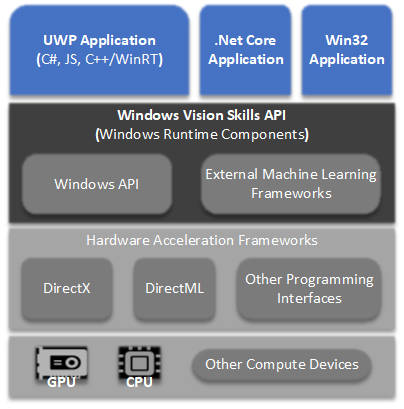
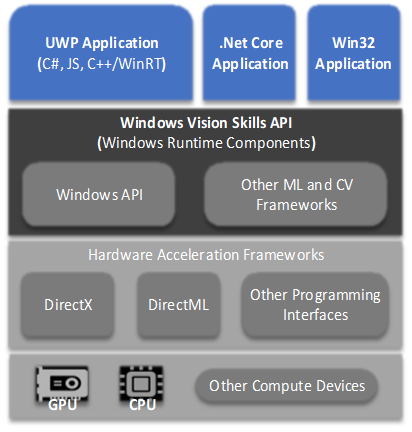
update Windows Vision Skill diagram referenced on the Index page. Remove duplicate and deprecated diagram.

diff --git a/docs/windows-vision-skills/index.md b/docs/windows-vision-skills/index.md
@@ -23,7 +23,7 @@ The **Windows Vision Skills** framework is meant to standardize the way computer
         The implementation that contains the complex details is encapsulated by an extensible WinRT API that inherits the base classes and interfaces in the [Microsoft.AI.Skills.SkillInterfacePreview](https://docs.microsoft.com/dotnet/api/microsoft.ai.skills.skillinterfacepreview) namespace. This API can be ingested by all types of Windows apps (UWP, .NET Core, and Win32). This framework is open for all developers to build on top of.
     :::column-end:::
     :::column:::
-        ![Diagram of how Windows Vision Skills fits into the development stack; starts with the bottom layer (GPU, CPU, VPU, etc); on top of that are hardware acceleration frameworks (DirectX, DirectML, and others); the next layer is the Windows Vision Skills API, consisting of Windows APIs and third-party frameworks; and the top layer consists of UWP and .NET Core applications](../images/vision-skills-diagram2.png)
+        ![Diagram of how Windows Vision Skills fits into the development stack; starts with the bottom layer (GPU, CPU, VPU, etc); on top of that are hardware acceleration frameworks (DirectX, DirectML, and others); the next layer is the Windows Vision Skills API, consisting of Windows APIs and third-party frameworks; and the top layer consists of UWP, .NET Core and Win32 applications](../images/vision-skills-diagram.png)
     :::column-end:::
 :::row-end:::
 
